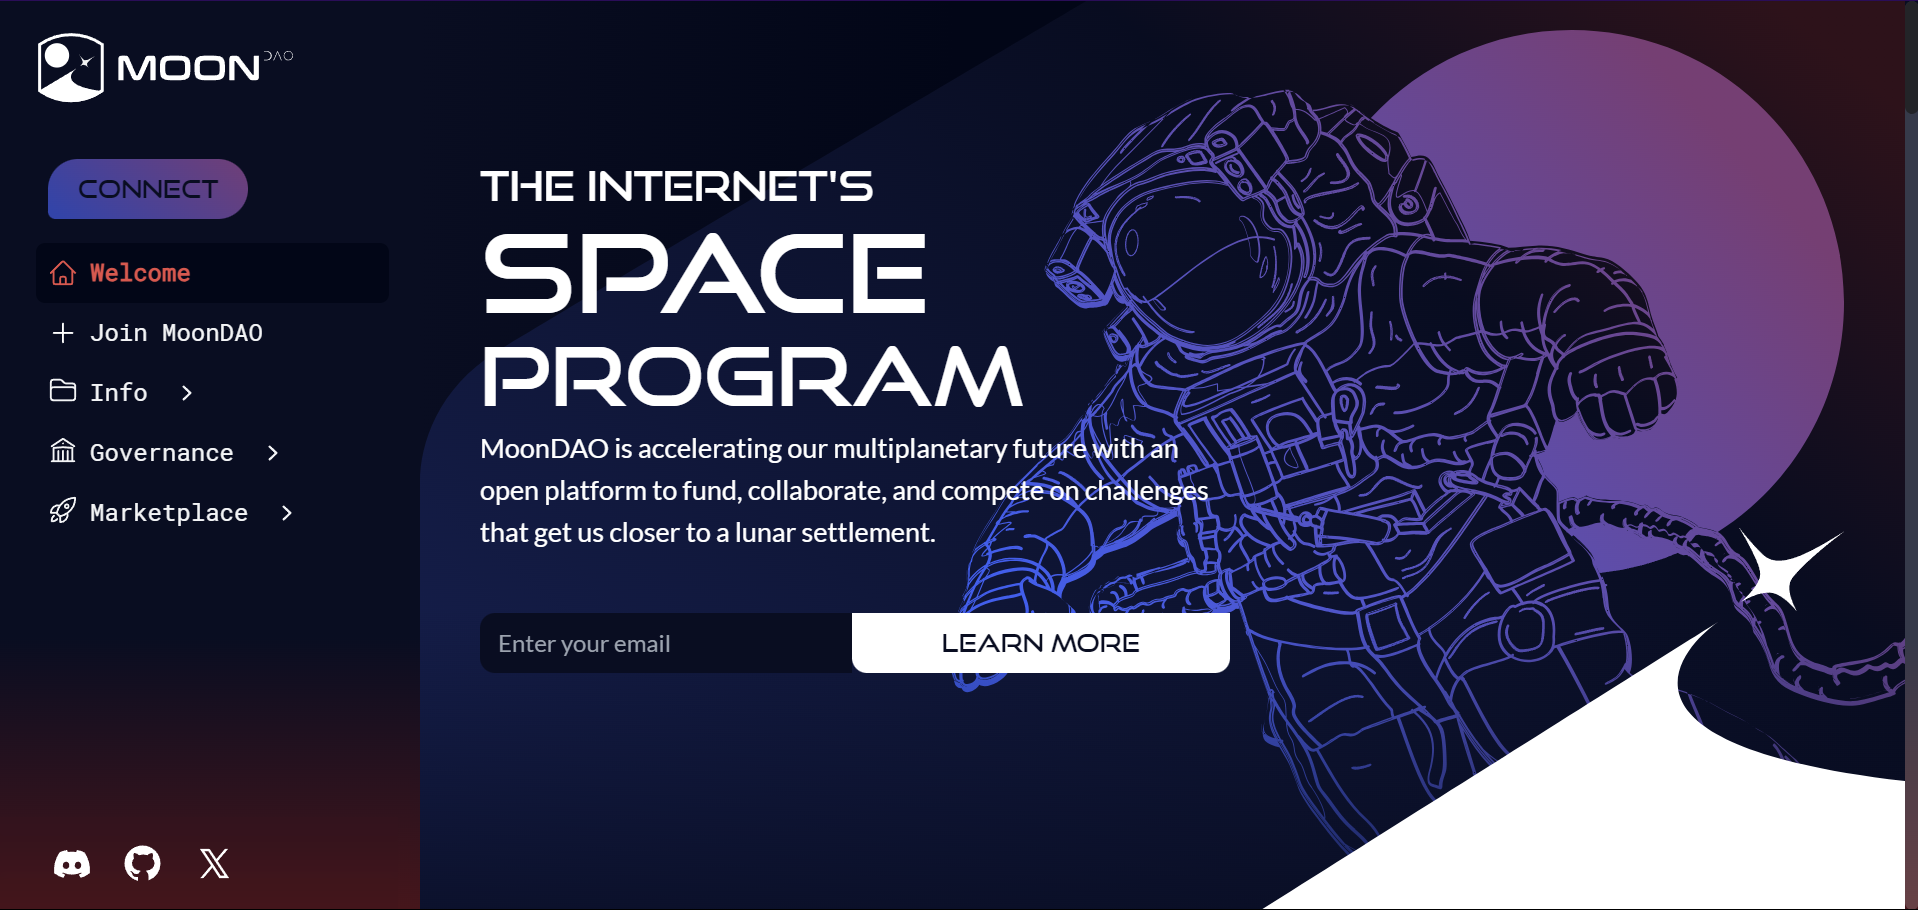
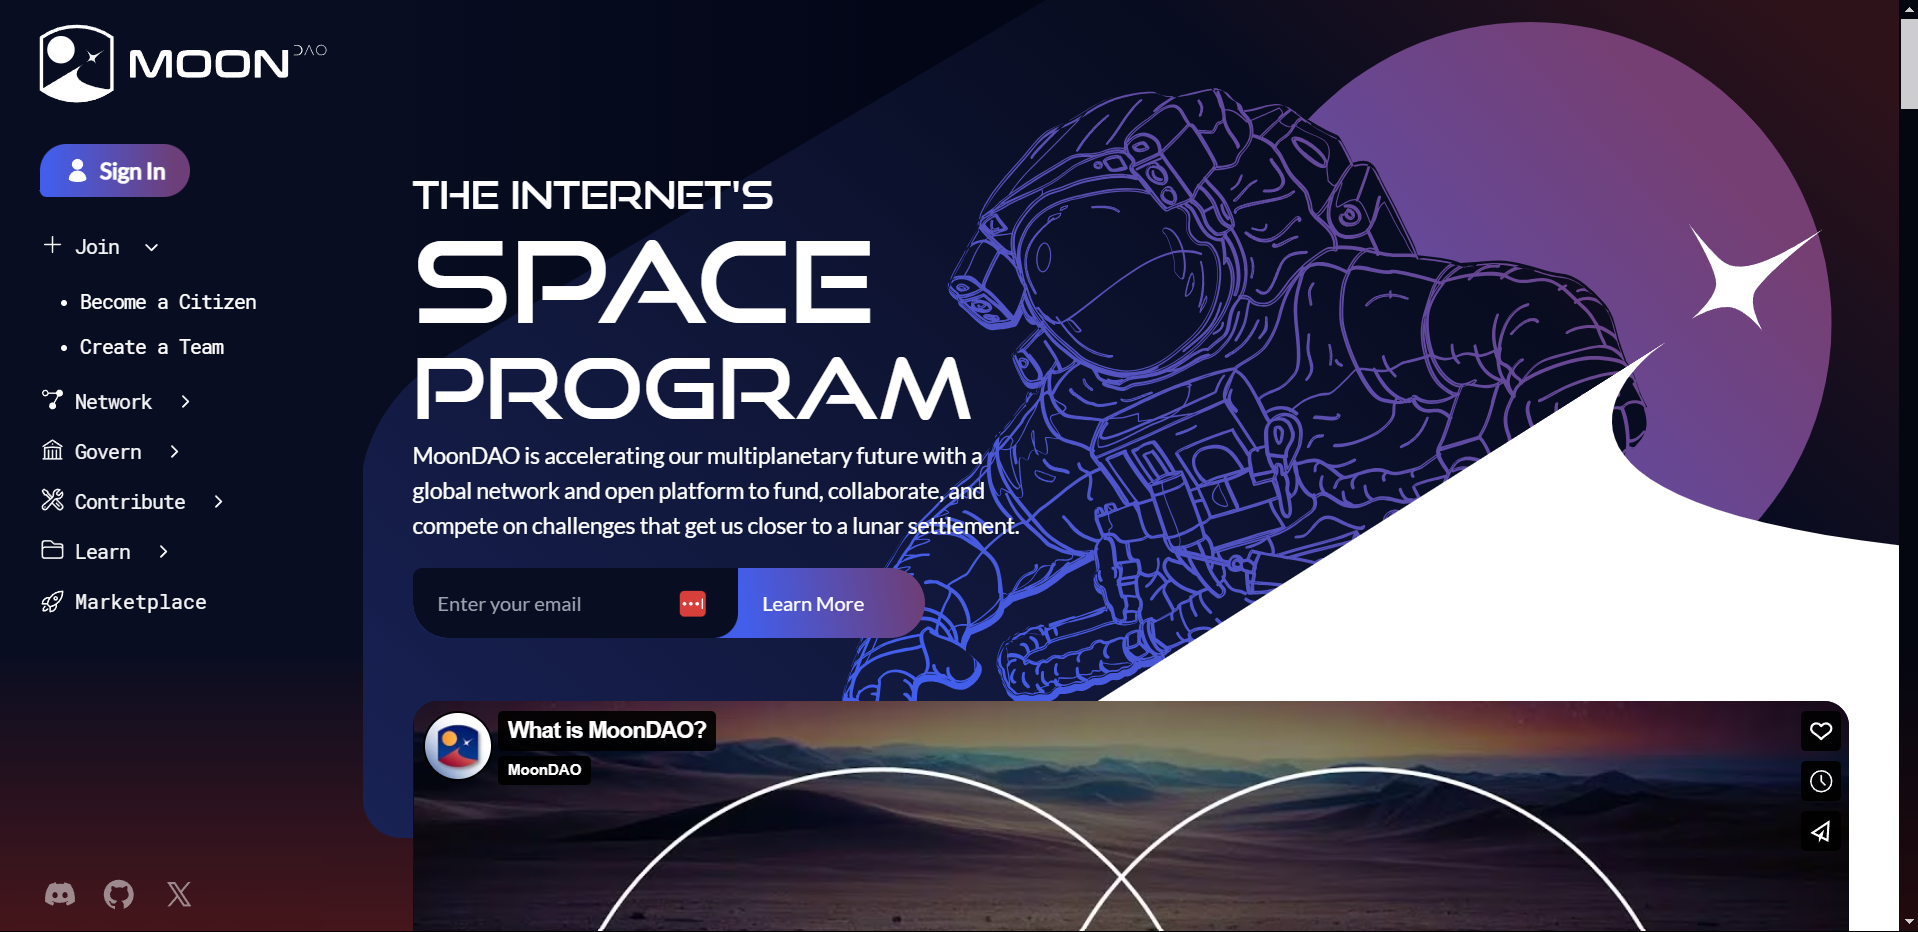
readme updates + images

diff --git a/README.md b/README.md
@@ -1,8 +1,8 @@
 # MoonDAO.com Website
 
-[![](https://gray-main-toad-36.mypinata.cloud/ipfs/QmZDpmqsxJwk4x53DkvB3vek1nXFn4GJxGCc94fPBpicuA)](https://www.moondao.com)
+[![](https://gray-main-toad-36.mypinata.cloud/ipfs/bafkreifucveibyrj3px25qg7rajl77gkgkrzvtrsno57zo4pbmq3ntazkq)](https://www.moondao.com)
 
-[MoonDAO.com](https://www.moondao.com) is the hub for the Internet's Space Program, where users can become a MoonDAO member, obtain $MOONEY, lock to participate in governance, submit proposals, vote, read news and updates, dive into the documentation, and interact with the Marketplace for unique experiences such as the Ticket to Space sweepstakes or zero gravity astronaut training experiences. To get started, users can connect their Web3 wallet, or create one by email or social login, in order to interact with the MoonDAO smart contracts.
+[MoonDAO.com](https://www.moondao.com) is the hub for the Internet's Space Program, where users can become a MoonDAO Citizen, buy $MOONEY, lock to participate in governance, submit proposals, vote, read news and updates, dive into the documentation, and purchase from the Marketplace with unique experiences such as the Ticket to Space sweepstakes or zero gravity astronaut training experiences and offerings from Teams in the Space Acceleration Network. To get started, users can connect their onchain wallet, or create one by email or social login, in order to interact with the MoonDAO smart contracts.
 
 > [![app](/ui/public/moondao_homepage.png)](https://www.moondao.com)
 
